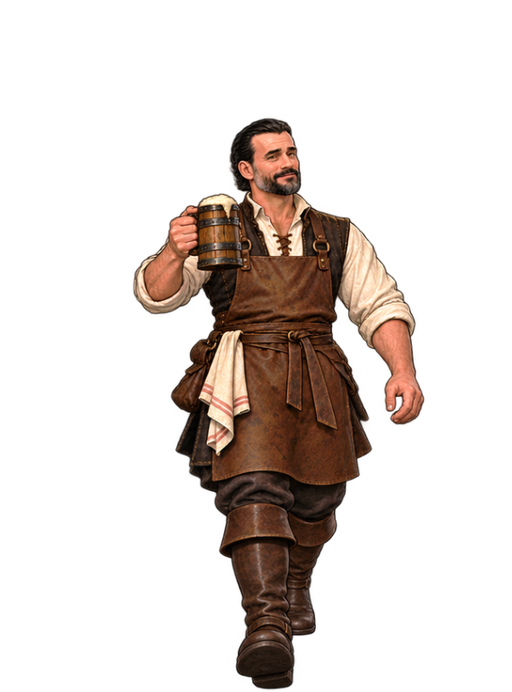
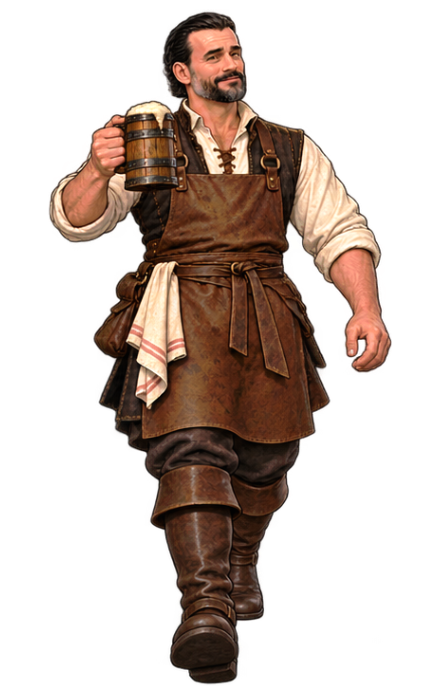
Add files via upload

diff --git a/game.js b/game.js
@@ -98,33 +98,38 @@ const PLAYER={
   radius:13,
   frameMs:145,
   direction:'front',
-  frame:4,
+  frame:1,
   sequenceIndex:0,
   frameClock:0,
   moving:false
 };
+
 const PLAYER_SEQUENCES={
-  front:[1,2,3,2],
+  front:[1,2,3,2,4],
   back:[1,2,3,4],
   right:[1,2,3,4],
   left:[1,2,3,4]
 };
+
 const keys=new Set();
 let playerLastTime=performance.now();
 
 function playerSpritePath(direction,frame){
   const source=(direction==='left'||direction==='right') ? 'side' : direction;
-  const version=source==='back' ? '' : '?v=10';
+  const version=source==='back' ? '' : '?v=11';
   return `assets/player/${source}-${frame}.png${version}`;
 }
+
 function showPlayerFrame(force=false){
   if(!player)return;
+
   const next=playerSpritePath(PLAYER.direction,PLAYER.frame);
   const current=player.getAttribute('src')||'';
   if(force || current!==next) player.setAttribute('src',next);
 
-  // NUR W / WA / WD (back) ist 15 % kleiner.
-  // S / SA / SD sowie A / D bleiben bei 100 %.
+  // W / WA / WD bleibt 15 % kleiner.
+  // Anhang 2 ist ORIGINAL nach links (A).
+  // Nur D wird horizontal gespiegelt.
   if(PLAYER.direction==='back'){
     player.style.transform='translate(-50%,-100%) scale(0.85)';
   }else if(PLAYER.direction==='right'){
@@ -133,6 +138,7 @@ function showPlayerFrame(force=false){
     player.style.transform='translate(-50%,-100%)';
   }
 }
+
 function setPlayerDirection(direction){
   if(direction===PLAYER.direction)return;
   PLAYER.direction=direction;
@@ -141,6 +147,7 @@ function setPlayerDirection(direction){
   PLAYER.frame=PLAYER_SEQUENCES[direction][0];
   showPlayerFrame(true);
 }
+
 function playerCanStand(x,y){
   const margin=10;
   if(x<margin||y<margin||x>WORLD_W-margin||y>WORLD_H-margin)return false;
@@ -151,6 +158,7 @@ function movePlayerAxis(dx,dy){
   if(dx&&playerCanStand(nx,PLAYER.y))PLAYER.x=nx;
   if(dy&&playerCanStand(PLAYER.x,ny))PLAYER.y=ny;
 }
+
 function updatePlayer(now){
   if(!player)return;
   const dt=Math.min(.04,(now-playerLastTime)/1000);
@@ -163,6 +171,7 @@ function updatePlayer(now){
   if(keys.has('s'))dy+=1;
 
   PLAYER.moving=dx!==0||dy!==0;
+
   if(PLAYER.moving){
     const len=Math.hypot(dx,dy);
     dx/=len; dy/=len;
@@ -174,6 +183,7 @@ function updatePlayer(now){
 
     movePlayerAxis(dx*PLAYER.speed*dt,dy*PLAYER.speed*dt);
 
+    // Exakt derselbe Abstand zwischen JEDEM Frame: 145 ms.
     PLAYER.frameClock+=dt*1000;
     while(PLAYER.frameClock>=PLAYER.frameMs){
       PLAYER.frameClock-=PLAYER.frameMs;
@@ -241,13 +251,14 @@ function circleBlocked(x,y,r=8){
 window.BurgCollision={pointBlocked,circleBlocked,sprites:collisionSprites};
 
 const PLAYER_FRAME_PATHS = [
-  'assets/player/front-1.png?v=10','assets/player/front-2.png?v=10',
-  'assets/player/front-3.png?v=10',
+  'assets/player/front-1.png?v=11','assets/player/front-2.png?v=11',
+  'assets/player/front-3.png?v=11','assets/player/front-4.png?v=11',
   'assets/player/back-1.png','assets/player/back-2.png',
   'assets/player/back-3.png','assets/player/back-4.png',
-  'assets/player/side-1.png?v=10','assets/player/side-2.png?v=10',
-  'assets/player/side-3.png?v=10','assets/player/side-4.png?v=10'
+  'assets/player/side-1.png?v=11','assets/player/side-2.png?v=11',
+  'assets/player/side-3.png?v=11','assets/player/side-4.png?v=11'
 ];
+
 async function preloadPlayerFrames(){
   await Promise.all(PLAYER_FRAME_PATHS.map(src=>new Promise(resolve=>{
     const img=new Image();
@@ -261,9 +272,9 @@ async function start(){
   calculateBaseScale();
   currentX=currentY=targetX=targetY=0;
 
-  /* Playerframes vorab decodieren: dadurch exakt gleiche Framezeiten ohne Lade-Ruckler. */
   await preloadPlayerFrames();
   showPlayerFrame(true);
+
   if(player){
     player.style.left=`${PLAYER.x}px`;
     player.style.top=`${PLAYER.y}px`;
@@ -274,7 +285,6 @@ async function start(){
   playerLastTime=performance.now();
   rafId=requestAnimationFrame(draw);
 
-  /* Props/Kollision erst NACH sichtbarem Spielstart laden. */
   const collidables=[...document.querySelectorAll('.collidable[data-collision="alpha"]')];
   Promise.all(collidables.map(buildAlphaCollision)).catch(console.error);
 }

diff --git a/index.html b/index.html
@@ -22,13 +22,13 @@
       <img class="prop collidable" id="stuhl" src="assets/props/stuhl.png?v=03" alt="" draggable="false" data-collision="alpha">
       <img class="prop collidable" id="tafel" src="assets/props/tafel.png?v=03" alt="" draggable="false" data-collision="alpha">
 
-      <img id="player" src="assets/player/front-1.png?v=10" alt="" draggable="false">
+      <img id="player" src="assets/player/front-1.png?v=11" alt="" draggable="false">
     </div>
 
     <audio id="bgMusic" src="assets/audio/arrival-in-ashford.mp3" preload="auto" loop></audio>
     <div id="loading">DIE BURGSCHENKE WIRD GEÖFFNET …</div>
     <div id="zoomHint" aria-hidden="true">MAUSRAD · 2 ZOOMSTUFEN</div>
   </main>
-  <script src="game.js?v=10"></script>
+  <script src="game.js?v=11"></script>
 </body>
 </html>
